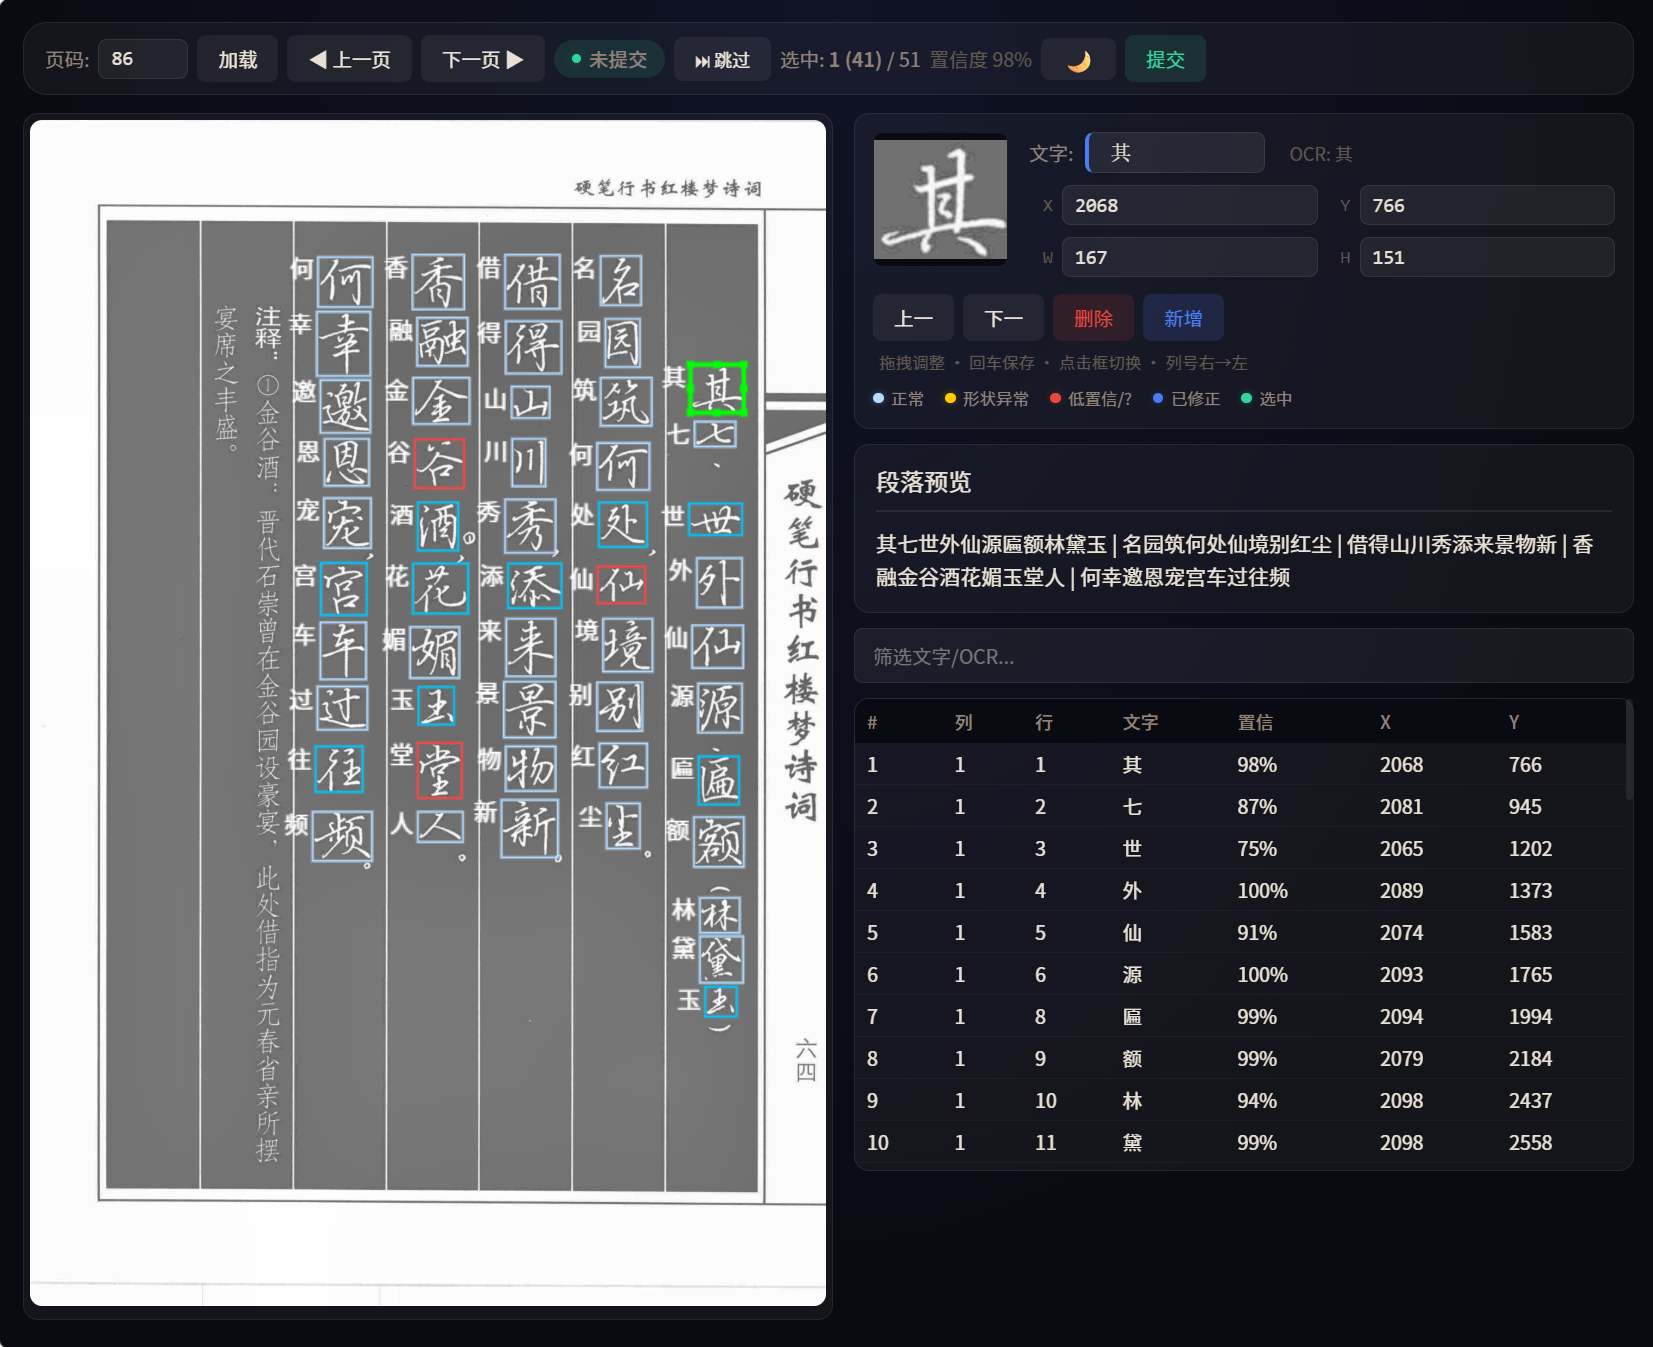
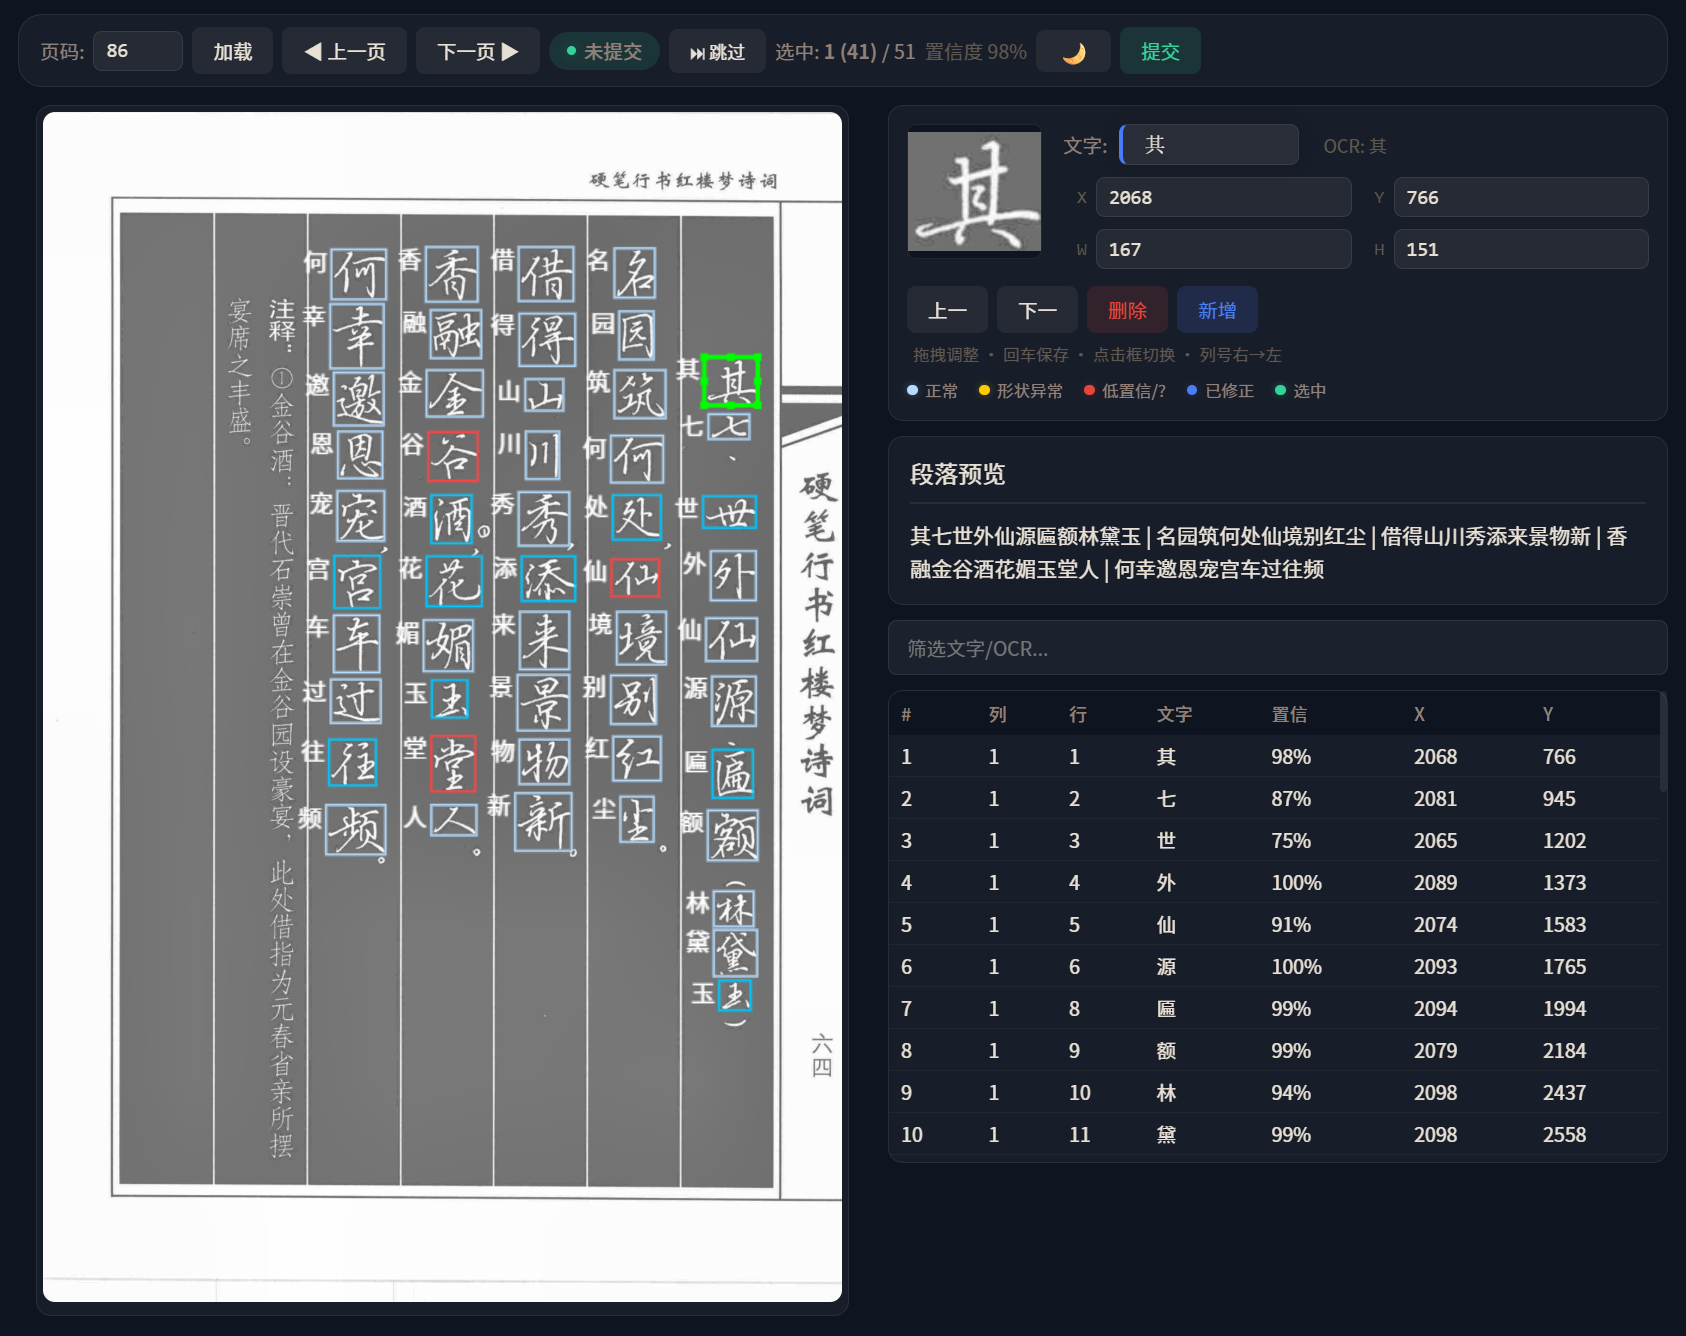
style: sync button/input consistency across all three frontend pages
- Unify dark bg #0e1420 across review_server, char_viewer, compose
- Remove radial gradient from body
- Add light mode form control visibility (--input-bg/--input-border)
- Add light mode scrollbar, table header, button backgrounds
- Char viewer: pill-shaped search box, .btn bg 8% to match select
- Review server: .btn bg 6%->8%, add select option styling
- Compose: add light mode button variant backgrounds

diff --git a/templates/char_viewer.html b/templates/char_viewer.html
@@ -84,12 +84,6 @@ body {
   backdrop-filter: blur(12px); -webkit-backdrop-filter: blur(12px);
 }
 #toolbar label { font-size: 13px; color: var(--text-muted); }
-#searchInput {
-  padding: 6px 12px; font-size: 15px; width: 180px;
-  background: rgba(255,255,255,0.08); border: none; color: var(--text-primary);
-  border-radius: var(--radius-sm); outline: none; font-family: var(--font-ui); transition: var(--transition);
-}
-#searchInput:focus { box-shadow: 0 0 10px var(--accent-blue-glow); background: rgba(255,255,255,0.12); }
 select {
   padding: 5px 8px; font-size: 13px;
   background: rgba(255,255,255,0.08); border: none; color: var(--text-primary);
@@ -102,8 +96,17 @@ select option { background: var(--bg-surface); color: var(--text-primary); }
   background: rgba(255,255,255,0.08); border: none; color: var(--text-primary);
   border-radius: var(--radius-sm); cursor: pointer; font-family: var(--font-ui); transition: var(--transition);
 }
-.btn:hover { background: rgba(255,255,255,0.14); box-shadow: 0 0 12px rgba(255,255,255,0.08); transform: translateY(-1px); }
+.btn:hover { background: rgba(255,255,255,0.13); box-shadow: 0 0 10px rgba(255,255,255,0.06); transform: translateY(-1px); }
+body.light .btn { background: rgba(0,0,0,0.06); }
+body.light .btn:hover { background: rgba(0,0,0,0.1); }
 .btn.active { background: rgba(192,152,96,0.2); color: var(--accent-gold); }
+#searchInput {
+  padding: 6px 16px; font-size: 15px; width: 200px;
+  background: rgba(255,255,255,0.06); border: none; color: var(--text-primary);
+  border-radius: 20px; outline: none; font-family: var(--font-ui); transition: var(--transition);
+}
+#searchInput:focus { box-shadow: 0 0 10px var(--accent-blue-glow); background: rgba(255,255,255,0.1); }
+body.light #searchInput { background: rgba(0,0,0,0.04); border: 1px solid rgba(0,0,0,0.1); }
 #main { display: flex; flex: 1; overflow: hidden; animation: fadeIn 0.5s ease 0.1s both; }
 #sidebar {
   width: 240px; min-width: 240px; background: var(--glass-bg);
@@ -153,6 +156,8 @@ select option { background: var(--bg-surface); color: var(--text-primary); }
 ::-webkit-scrollbar-track{background:transparent}
 ::-webkit-scrollbar-thumb{background:rgba(255,255,255,0.08);border-radius:3px}
 ::-webkit-scrollbar-thumb:hover{background:rgba(255,255,255,0.15)}
+body.light ::-webkit-scrollbar-thumb{background:rgba(0,0,0,0.12)}
+body.light ::-webkit-scrollbar-thumb:hover{background:rgba(0,0,0,0.2)}
 </style>
 </head>
 <body>

diff --git a/templates/compose.html b/templates/compose.html
@@ -266,6 +266,14 @@ textarea { border: none; }
 ::-webkit-scrollbar-track{background:transparent}
 ::-webkit-scrollbar-thumb{background:rgba(255,255,255,0.08);border-radius:3px}
 ::-webkit-scrollbar-thumb:hover{background:rgba(255,255,255,0.15)}
+body.light ::-webkit-scrollbar-thumb{background:rgba(0,0,0,0.12)}
+body.light ::-webkit-scrollbar-thumb:hover{background:rgba(0,0,0,0.2)}
+body.light .btn { background: rgba(0,0,0,0.06); }
+body.light .btn:hover { background: rgba(0,0,0,0.1); }
+body.light .btn-primary { background: rgba(59,111,224,0.1); }
+body.light .btn-primary:hover { background: rgba(59,111,224,0.18); }
+body.light .btn-success { background: rgba(52,211,153,0.1); }
+body.light .btn-success:hover { background: rgba(52,211,153,0.18); }
 </style>
 </head>
 <body>

diff --git a/review_server.py b/review_server.py
@@ -105,8 +105,8 @@ HTML = r"""<!DOCTYPE html>
 <title>字帖校对 - 第_PAGE_页</title>
 <style>
 :root {
-  --bg-deep: #0a0a12;
-  --bg-surface: #12121e;
+  --bg-deep: #0e1420;
+  --bg-surface: #141a28;
   --glass-bg: rgba(255,255,255,0.04);
   --glass-border: rgba(255,255,255,0.08);
   --glass-hover: rgba(255,255,255,0.12);
@@ -140,12 +140,27 @@ body.light{
   --accent-red-glow: rgba(209,59,48,0.2);
   --accent-blue: #3b6fe0;
   --accent-blue-glow: rgba(59,111,224,0.18);
+  --input-bg: rgba(0,0,0,0.04);
+  --input-border: rgba(0,0,0,0.12);
 }
+body.light .fi, body.light input[type=number], body.light select, body.light textarea {
+  background: var(--input-bg);
+  border: 1px solid var(--input-border) !important;
+}
+body.light .fi:focus, body.light input[type=number]:focus, body.light select:focus, body.light textarea:focus {
+  border-color: var(--accent-blue) !important;
+  box-shadow: 0 0 8px var(--accent-blue-glow);
+}
+body.light select option { background: var(--bg-surface); color: var(--text-primary); }
+body.light .btn { background: rgba(0,0,0,0.06); }
+body.light .btn:hover { background: rgba(0,0,0,0.1); }
+body.light .btn-primary { background: rgba(59,111,224,0.1); }
+body.light .btn-danger { background: rgba(209,59,48,0.1); }
+body.light .btn-success { background: rgba(52,211,153,0.1); }
 *{margin:0;padding:0;box-sizing:border-box}
 body{
   font-family:var(--font-ui);
   background:var(--bg-deep);
-  background-image:radial-gradient(ellipse at 50% 0, rgba(74,124,247,0.08), transparent 70%);
   color:var(--text-primary);
   padding:16px;
   min-height:100vh;
@@ -160,14 +175,14 @@ body{
 .toolbar span{color:var(--text-muted);font-size:13px}
 .btn{
   padding:6px 14px;border-radius:var(--radius-sm);border:none;
-  background:rgba(255,255,255,0.06);
+  background:rgba(255,255,255,0.08);
   color:var(--text-primary);cursor:pointer;
   font-family:var(--font-ui);font-size:13px;
   transition:var(--transition);
 }
 .btn:hover{
-  background:rgba(255,255,255,0.12);
-  box-shadow:0 0 12px rgba(255,255,255,0.08);
+  background:rgba(255,255,255,0.13);
+  box-shadow:0 0 10px rgba(255,255,255,0.06);
   transform:translateY(-1px);
 }
 .btn-primary{background:rgba(74,124,247,0.15);color:var(--accent-blue)}
@@ -210,8 +225,9 @@ body{
 .tw{overflow-y:auto;max-height:35vh;padding:0}
 table{width:100%;border-collapse:collapse;font-size:13px;font-family:var(--font-ui)}
 th{
-  background:var(--bg-deep);padding:6px 8px;text-align:left;
+  background:var(--bg-surface);padding:6px 8px;text-align:left;
   position:sticky;top:0;z-index:2;color:var(--text-muted);font-weight:500;font-size:12px;
+  border-bottom:1px solid var(--glass-border);
 }
 td{padding:4px 8px;border-bottom:1px solid rgba(255,255,255,0.04);cursor:pointer;transition:var(--transition)}
 tr{transition:var(--transition)}
@@ -312,6 +328,8 @@ tr.sel td:first-child::before{
 ::-webkit-scrollbar-track{background:transparent}
 ::-webkit-scrollbar-thumb{background:rgba(255,255,255,0.08);border-radius:3px}
 ::-webkit-scrollbar-thumb:hover{background:rgba(255,255,255,0.15)}
+body.light ::-webkit-scrollbar-thumb{background:rgba(0,0,0,0.12)}
+body.light ::-webkit-scrollbar-thumb:hover{background:rgba(0,0,0,0.2)}
 </style>
 </head>
 <body>